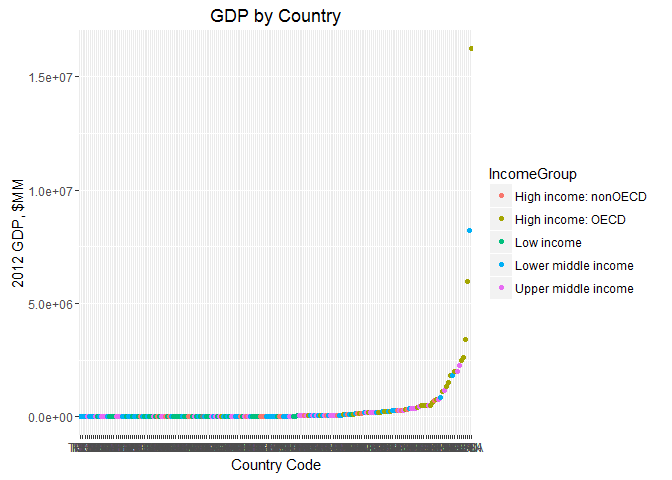
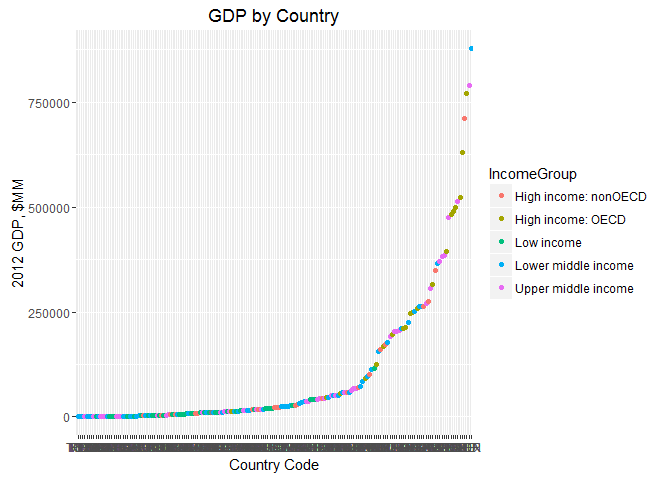
652AM

diff --git a/papers/CaseStudy.html b/papers/CaseStudy.html
@@ -320,7 +320,7 @@ The standard deviation of the nonOECD group is also higher than the OECD group, 
 ## 
 ## &gt; p + geom_point(aes(colour = IncomeGroup)) + labs(title = &quot;GDP by Country&quot;, 
 ## +     y = &quot;2012 GDP, $MM&quot;, x = &quot;Country Code&quot;)</code></pre>
[2 lines of base64/hex data omitted]
 <p>The scale of the visualization shows significant compression of the data on the axis of GDP, due to the significant disparity in value between the lowest (Tuvalu, with a GDP of 40 million) and the United States, with a value of $16,244,600,000. Fifteen countries have a value over one trillion dollars, out of scale with the remaining 170+ countries. Sixty countries have less than one billion dollars in gross domestic product as of 2012.</p>
 <p>Most of the top ranked countries are in the highest income groups, with the notable of exception of the second ranked country, China.</p>
 <p>If we remove the top 15 countries from the visualization, and replot again, a greater amount of the variability Gross Domestic Product of the countries ranked 16-190 in the world. It also appears that most of the lower GDP countries fall into the “Lower Middle Income” or “Low Income” groups, but there are a few higher income countries in the lower tiers.</p>

diff --git a/papers/CaseStudy.md b/papers/CaseStudy.md
@@ -309,7 +309,7 @@ source("Analysis/Question4.R", echo=TRUE)
 ## +     y = "2012 GDP, $MM", x = "Country Code")
 ```
 
-<img src="papers\CaseStudy_files/figure-html/unnamed-chunk-4-1.png" width="1000px" />
+![](papers\CaseStudy_files/figure-html/ggplotOfGDP-1.png)<!-- -->
 
 The scale of the visualization shows significant compression of the data on the axis of GDP, due to the significant disparity in value between the lowest (Tuvalu, with a GDP of 40 million) and the United States, with a value of $16,244,600,000.  Fifteen countries have a value over one trillion dollars, out of scale with the remaining 170+ countries.  Sixty countries have less than one billion dollars in gross domestic product as of 2012.
 
@@ -345,7 +345,7 @@ source("Analysis/Question4b.R", echo=TRUE)
 ## +     y = "2012 GDP, $MM", x = "Country Code")
 ```
 
-<img src="papers\CaseStudy_files/figure-html/unnamed-chunk-5-1.png" width="1000px" />
+<img src="papers\CaseStudy_files/figure-html/unnamed-chunk-4-1.png" width="1000px" />
 
 
 
